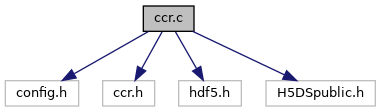
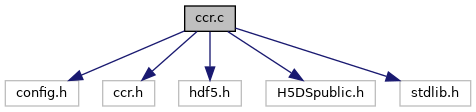
updated

diff --git a/ccr_8c.html b/ccr_8c.html
@@ -67,6 +67,7 @@ $(function() {
 </div><!-- top -->
 <div class="header">
   <div class="summary">
+<a href="#define-members">Macros</a> &#124;
 <a href="#func-members">Functions</a>  </div>
   <div class="headertitle">
 <div class="title">ccr.c File Reference</div>  </div>
@@ -76,19 +77,30 @@ $(function() {
 <code>#include &quot;ccr.h&quot;</code><br />
 <code>#include &lt;hdf5.h&gt;</code><br />
 <code>#include &lt;H5DSpublic.h&gt;</code><br />
+<code>#include &lt;stdlib.h&gt;</code><br />
 </div><div class="textblock"><div class="dynheader">
 Include dependency graph for ccr.c:</div>
 <div class="dyncontent">
 <div class="center"><img src="ccr_8c__incl.png" border="0" usemap="#ccr_8c" alt=""/></div>
 <map name="ccr_8c" id="ccr_8c">
-<area shape="rect" title=" " alt="" coords="143,5,194,32"/>
+<area shape="rect" title=" " alt="" coords="185,5,235,32"/>
 <area shape="rect" title=" " alt="" coords="5,80,79,107"/>
 <area shape="rect" title=" " alt="" coords="103,80,155,107"/>
 <area shape="rect" title=" " alt="" coords="179,80,241,107"/>
 <area shape="rect" title=" " alt="" coords="266,80,375,107"/>
+<area shape="rect" title=" " alt="" coords="400,80,471,107"/>
 </map>
 </div>
 </div><table class="memberdecls">
+<tr class="heading"><td colspan="2"><h2 class="groupheader"><a name="define-members"></a>
+Macros</h2></td></tr>
+<tr class="memitem:af27c3d30565421376399ef822c331a92"><td class="memItemLeft" align="right" valign="top"><a id="af27c3d30565421376399ef822c331a92"></a>
+#define&#160;</td><td class="memItemRight" valign="bottom"><b>MAX_BITGROOM_NSD_FLOAT</b>&#160;&#160;&#160;7</td></tr>
+<tr class="separator:af27c3d30565421376399ef822c331a92"><td class="memSeparator" colspan="2">&#160;</td></tr>
+<tr class="memitem:ab36aa12fb7564e0045aa90ef5dae2ea3"><td class="memItemLeft" align="right" valign="top"><a id="ab36aa12fb7564e0045aa90ef5dae2ea3"></a>
+#define&#160;</td><td class="memItemRight" valign="bottom"><b>MAX_BITGROOM_NSD_DOUBLE</b>&#160;&#160;&#160;15</td></tr>
+<tr class="separator:ab36aa12fb7564e0045aa90ef5dae2ea3"><td class="memSeparator" colspan="2">&#160;</td></tr>
+</table><table class="memberdecls">
 <tr class="heading"><td colspan="2"><h2 class="groupheader"><a name="func-members"></a>
 Functions</h2></td></tr>
 <tr class="memitem:a88189edd7b1d51b5d46b7ad6fe0c9c69"><td class="memItemLeft" align="right" valign="top">int&#160;</td><td class="memItemRight" valign="bottom"><a class="el" href="ccr_8c.html#a88189edd7b1d51b5d46b7ad6fe0c9c69">nc_def_var_bzip2</a> (int ncid, int varid, int level)</td></tr>
@@ -150,7 +162,7 @@ Functions</h2></td></tr>
 <p>Turn on BitGroom quantization for a variable. </p>
 <p>The BitGroom filter quantizes the data by setting unneeded bits alternately to 1/0, so that they may compress well. The BitGroom filter itself is lossy (data are irretrievably altered), and it improves the compression ratio provided by a subsequent lossless compression filter. Call the <a class="el" href="ccr_8c.html#abf8731ef9e90d4761fc08dd2d8c862c1" title="Turn on BitGroom quantization for a variable.">nc_def_var_bitgroom()</a> function before the function that turns on the lossless compression filter (nc_def_var_deflate(), for example).</p>
 <p>A notable feature of BitGroom is that the data it processes remain in IEEE754 format after quantization. Therefore the BitGroom filter does nothing when data are read. However, the Bitgroom filter must still be installed on machines that need to read bitgroomed data.</p>
-<p>The BitGroom filter only quantizes variables of type NC_FLOAT or NC_DOUBLE. Attempts to set the BitGroom filter for other variable types are ignored. The BitGroom filter does not quantize values equal to the value of the _FillValue attribute, if any. The only difference between the BitGroom algorithm as implemented in the CCR and in NCO is that the NCO version will not quantize the values of "coordinate-like" variables (e.g., latitude, longitude, time) as defined in the NCO manual, whereas the CCR version will quantize all floating-point variables.</p>
+<p>The BitGroom filter only quantizes variables of type NC_FLOAT or NC_DOUBLE. Attempts to set the BitGroom filter for other variable types through the C/Fortran API return an error (NC_EINVAL). The filter does not quantize values equal to the value of the _FillValue attribute, if any. The main difference between the BitGroom algorithm as implemented in the CCR and in NCO is that the NCO version will not quantize the values of "coordinate-like" variables (e.g., latitude, longitude, time) as defined in the NCO manual, whereas the CCR version will quantize any floating-point variable.</p>
 <dl class="section note"><dt>Note</dt><dd>Internally, the filter requires CCR_FLT_PRM_NBR (=5) elements for cd_value. However, the user needs to provide only the first element, NSD, since the other elements can be and are derived from the dcpl (data_class, datum_size), and extra queries of the variable (has_mss_val, mss_val). Hence, the netCDF API exposes to the user and requires setting only the minimal number (1) of filter parameters.</dd></dl>
 <dl class="params"><dt>Parameters</dt><dd>
   <table class="params">
@@ -419,7 +431,7 @@ Functions</h2></td></tr>
 </div><!-- contents -->
 <!-- start footer part -->
 <hr class="footer"/><address class="footer"><small>
-Generated on Wed Dec 23 2020 14:25:10 for ccr by &#160;<a href="http://www.doxygen.org/index.html">
+Generated on Mon Dec 28 2020 14:00:39 for ccr by &#160;<a href="http://www.doxygen.org/index.html">
 <img class="footer" src="doxygen.png" alt="doxygen"/>
 </a> 1.8.17
 </small></address>

diff --git a/graph_legend.html b/graph_legend.html
@@ -129,7 +129,7 @@ A yellow dashed arrow denotes a relation between a template instance and the tem
 </div><!-- contents -->
 <!-- start footer part -->
 <hr class="footer"/><address class="footer"><small>
-Generated on Wed Dec 23 2020 14:25:10 for ccr by &#160;<a href="http://www.doxygen.org/index.html">
+Generated on Mon Dec 28 2020 14:00:39 for ccr by &#160;<a href="http://www.doxygen.org/index.html">
 <img class="footer" src="doxygen.png" alt="doxygen"/>
 </a> 1.8.17
 </small></address>

diff --git a/interfaceccr_1_1nc__def__var__bitgroom.html b/interfaceccr_1_1nc__def__var__bitgroom.html
@@ -91,7 +91,7 @@ function&#160;</td><td class="memItemRight" valign="bottom"><b>nc_def_var_bitgro
 </div><!-- contents -->
 <!-- start footer part -->
 <hr class="footer"/><address class="footer"><small>
-Generated on Wed Dec 23 2020 14:25:10 for ccr by &#160;<a href="http://www.doxygen.org/index.html">
+Generated on Mon Dec 28 2020 14:00:39 for ccr by &#160;<a href="http://www.doxygen.org/index.html">
 <img class="footer" src="doxygen.png" alt="doxygen"/>
 </a> 1.8.17
 </small></address>

diff --git a/interfaceccr_1_1nc__def__var__bzip2.html b/interfaceccr_1_1nc__def__var__bzip2.html
@@ -91,7 +91,7 @@ function&#160;</td><td class="memItemRight" valign="bottom"><b>nc_def_var_bzip2<
 </div><!-- contents -->
 <!-- start footer part -->
 <hr class="footer"/><address class="footer"><small>
-Generated on Wed Dec 23 2020 14:25:10 for ccr by &#160;<a href="http://www.doxygen.org/index.html">
+Generated on Mon Dec 28 2020 14:00:39 for ccr by &#160;<a href="http://www.doxygen.org/index.html">
 <img class="footer" src="doxygen.png" alt="doxygen"/>
 </a> 1.8.17
 </small></address>

diff --git a/interfaceccr_1_1nc__def__var__zstandard.html b/interfaceccr_1_1nc__def__var__zstandard.html
@@ -91,7 +91,7 @@ function&#160;</td><td class="memItemRight" valign="bottom"><b>nc_def_var_zstand
 </div><!-- contents -->
 <!-- start footer part -->
 <hr class="footer"/><address class="footer"><small>
-Generated on Wed Dec 23 2020 14:25:10 for ccr by &#160;<a href="http://www.doxygen.org/index.html">
+Generated on Mon Dec 28 2020 14:00:39 for ccr by &#160;<a href="http://www.doxygen.org/index.html">
 <img class="footer" src="doxygen.png" alt="doxygen"/>
 </a> 1.8.17
 </small></address>

diff --git a/interfaceccr_1_1nc__inq__var__bitgroom.html b/interfaceccr_1_1nc__inq__var__bitgroom.html
@@ -91,7 +91,7 @@ function&#160;</td><td class="memItemRight" valign="bottom"><b>nc_inq_var_bitgro
 </div><!-- contents -->
 <!-- start footer part -->
 <hr class="footer"/><address class="footer"><small>
-Generated on Wed Dec 23 2020 14:25:10 for ccr by &#160;<a href="http://www.doxygen.org/index.html">
+Generated on Mon Dec 28 2020 14:00:39 for ccr by &#160;<a href="http://www.doxygen.org/index.html">
 <img class="footer" src="doxygen.png" alt="doxygen"/>
 </a> 1.8.17
 </small></address>

diff --git a/interfaceccr_1_1nc__inq__var__bzip2.html b/interfaceccr_1_1nc__inq__var__bzip2.html
@@ -91,7 +91,7 @@ function&#160;</td><td class="memItemRight" valign="bottom"><b>nc_inq_var_bzip2<
 </div><!-- contents -->
 <!-- start footer part -->
 <hr class="footer"/><address class="footer"><small>
-Generated on Wed Dec 23 2020 14:25:10 for ccr by &#160;<a href="http://www.doxygen.org/index.html">
+Generated on Mon Dec 28 2020 14:00:39 for ccr by &#160;<a href="http://www.doxygen.org/index.html">
 <img class="footer" src="doxygen.png" alt="doxygen"/>
 </a> 1.8.17
 </small></address>

diff --git a/interfaceccr_1_1nc__inq__var__zstandard.html b/interfaceccr_1_1nc__inq__var__zstandard.html
@@ -91,7 +91,7 @@ function&#160;</td><td class="memItemRight" valign="bottom"><b>nc_inq_var_zstand
 </div><!-- contents -->
 <!-- start footer part -->
 <hr class="footer"/><address class="footer"><small>
-Generated on Wed Dec 23 2020 14:25:10 for ccr by &#160;<a href="http://www.doxygen.org/index.html">
+Generated on Mon Dec 28 2020 14:00:39 for ccr by &#160;<a href="http://www.doxygen.org/index.html">
 <img class="footer" src="doxygen.png" alt="doxygen"/>
 </a> 1.8.17
 </small></address>

diff --git a/ccr_8_f90.html b/ccr_8_f90.html
@@ -415,7 +415,7 @@ Functions/Subroutines</h2></td></tr>
 </div><!-- contents -->
 <!-- start footer part -->
 <hr class="footer"/><address class="footer"><small>
-Generated on Wed Dec 23 2020 14:25:10 for ccr by &#160;<a href="http://www.doxygen.org/index.html">
+Generated on Mon Dec 28 2020 14:00:39 for ccr by &#160;<a href="http://www.doxygen.org/index.html">
 <img class="footer" src="doxygen.png" alt="doxygen"/>
 </a> 1.8.17
 </small></address>

diff --git a/interfaceccr_1_1nc__def__var__bitgroom-members.html b/interfaceccr_1_1nc__def__var__bitgroom-members.html
@@ -77,7 +77,7 @@ $(function() {
 </table></div><!-- contents -->
 <!-- start footer part -->
 <hr class="footer"/><address class="footer"><small>
-Generated on Wed Dec 23 2020 14:25:10 for ccr by &#160;<a href="http://www.doxygen.org/index.html">
+Generated on Mon Dec 28 2020 14:00:39 for ccr by &#160;<a href="http://www.doxygen.org/index.html">
 <img class="footer" src="doxygen.png" alt="doxygen"/>
 </a> 1.8.17
 </small></address>

diff --git a/interfaceccr_1_1nc__def__var__bzip2-members.html b/interfaceccr_1_1nc__def__var__bzip2-members.html
@@ -77,7 +77,7 @@ $(function() {
 </table></div><!-- contents -->
 <!-- start footer part -->
 <hr class="footer"/><address class="footer"><small>
-Generated on Wed Dec 23 2020 14:25:10 for ccr by &#160;<a href="http://www.doxygen.org/index.html">
+Generated on Mon Dec 28 2020 14:00:39 for ccr by &#160;<a href="http://www.doxygen.org/index.html">
 <img class="footer" src="doxygen.png" alt="doxygen"/>
 </a> 1.8.17
 </small></address>

diff --git a/interfaceccr_1_1nc__def__var__zstandard-members.html b/interfaceccr_1_1nc__def__var__zstandard-members.html
@@ -77,7 +77,7 @@ $(function() {
 </table></div><!-- contents -->
 <!-- start footer part -->
 <hr class="footer"/><address class="footer"><small>
-Generated on Wed Dec 23 2020 14:25:10 for ccr by &#160;<a href="http://www.doxygen.org/index.html">
+Generated on Mon Dec 28 2020 14:00:39 for ccr by &#160;<a href="http://www.doxygen.org/index.html">
 <img class="footer" src="doxygen.png" alt="doxygen"/>
 </a> 1.8.17
 </small></address>
